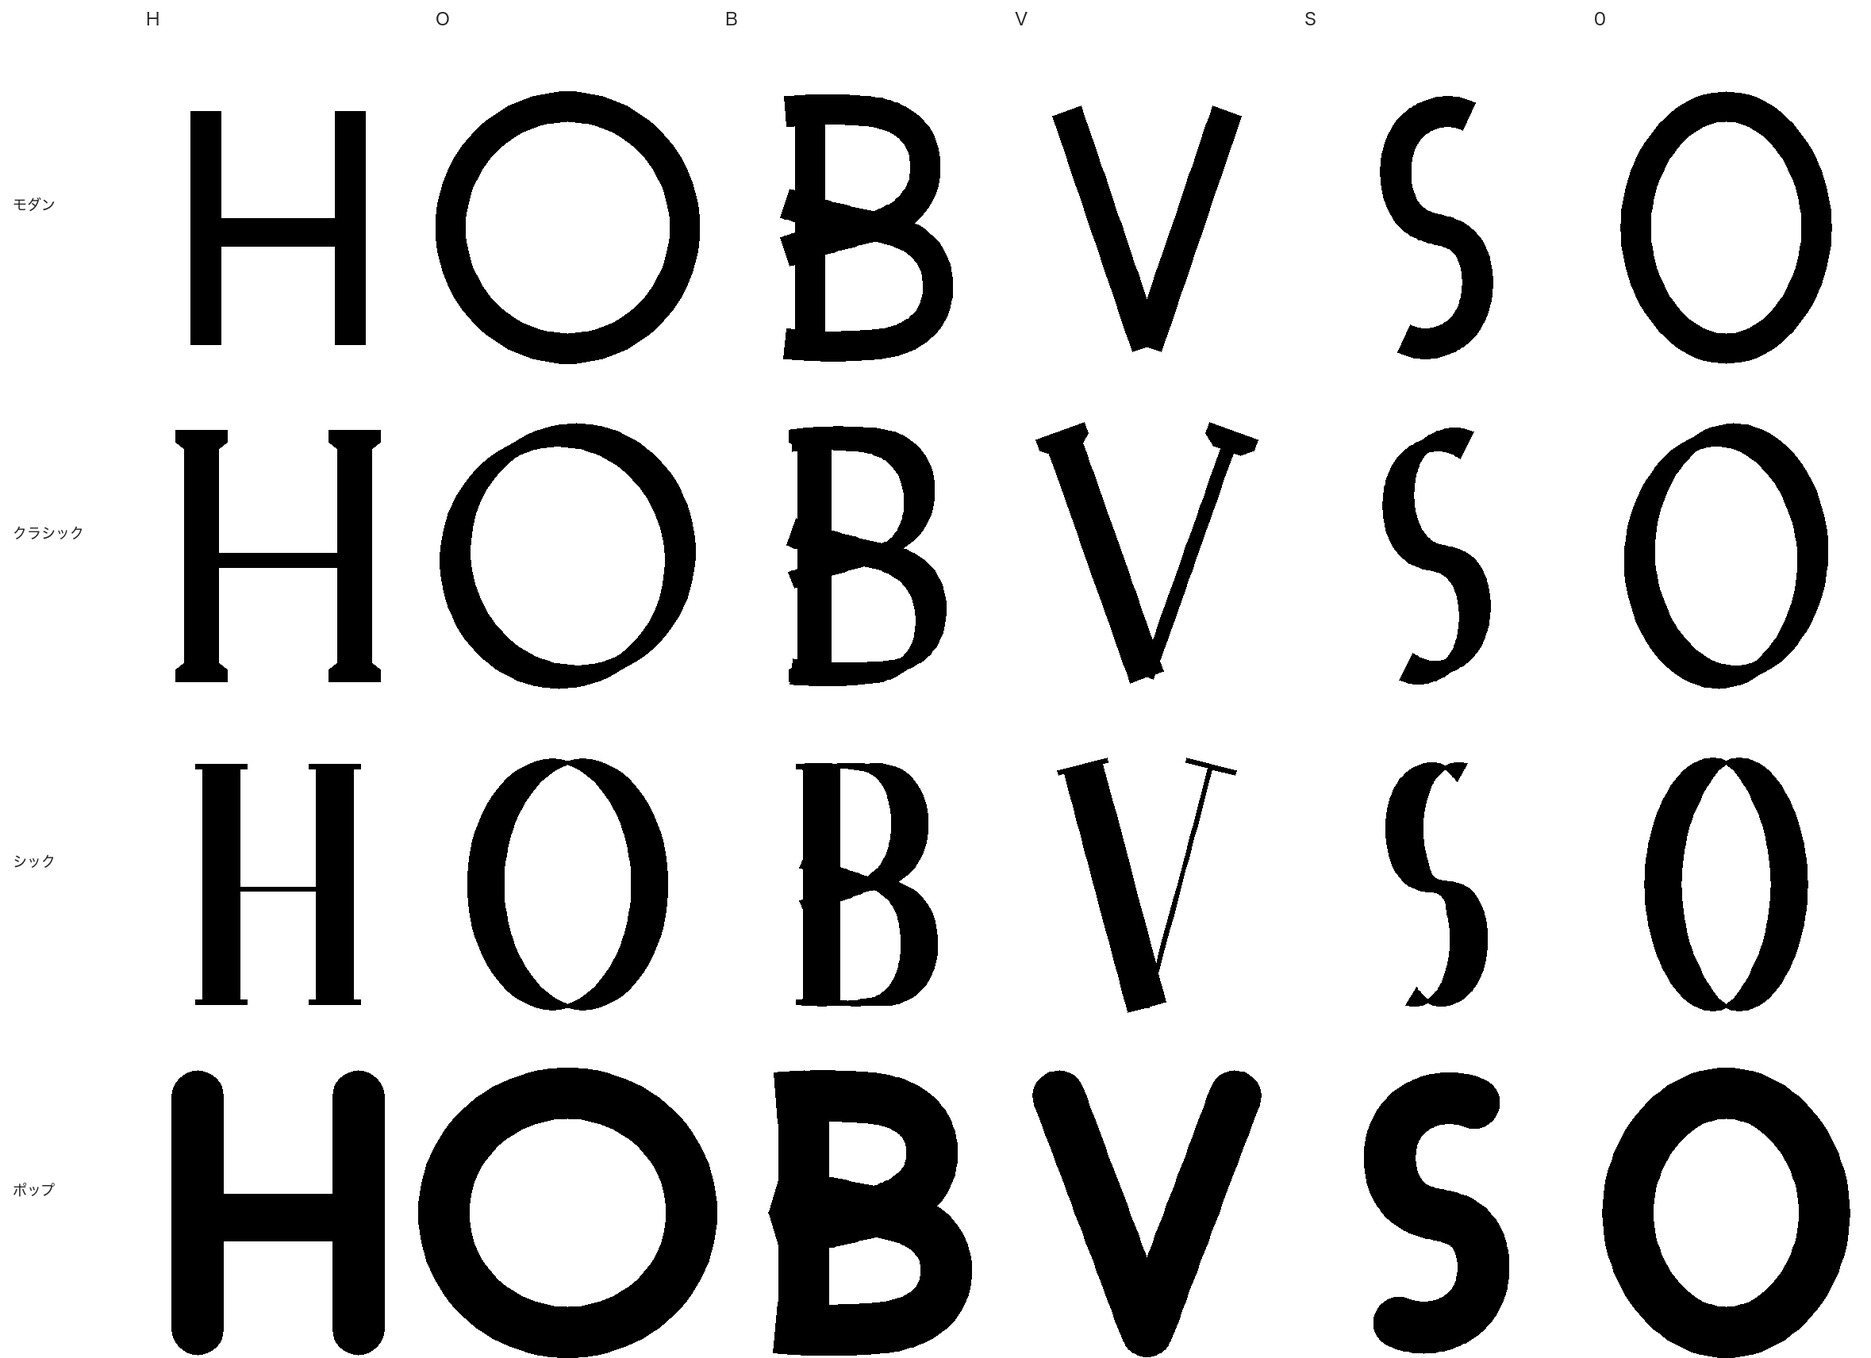
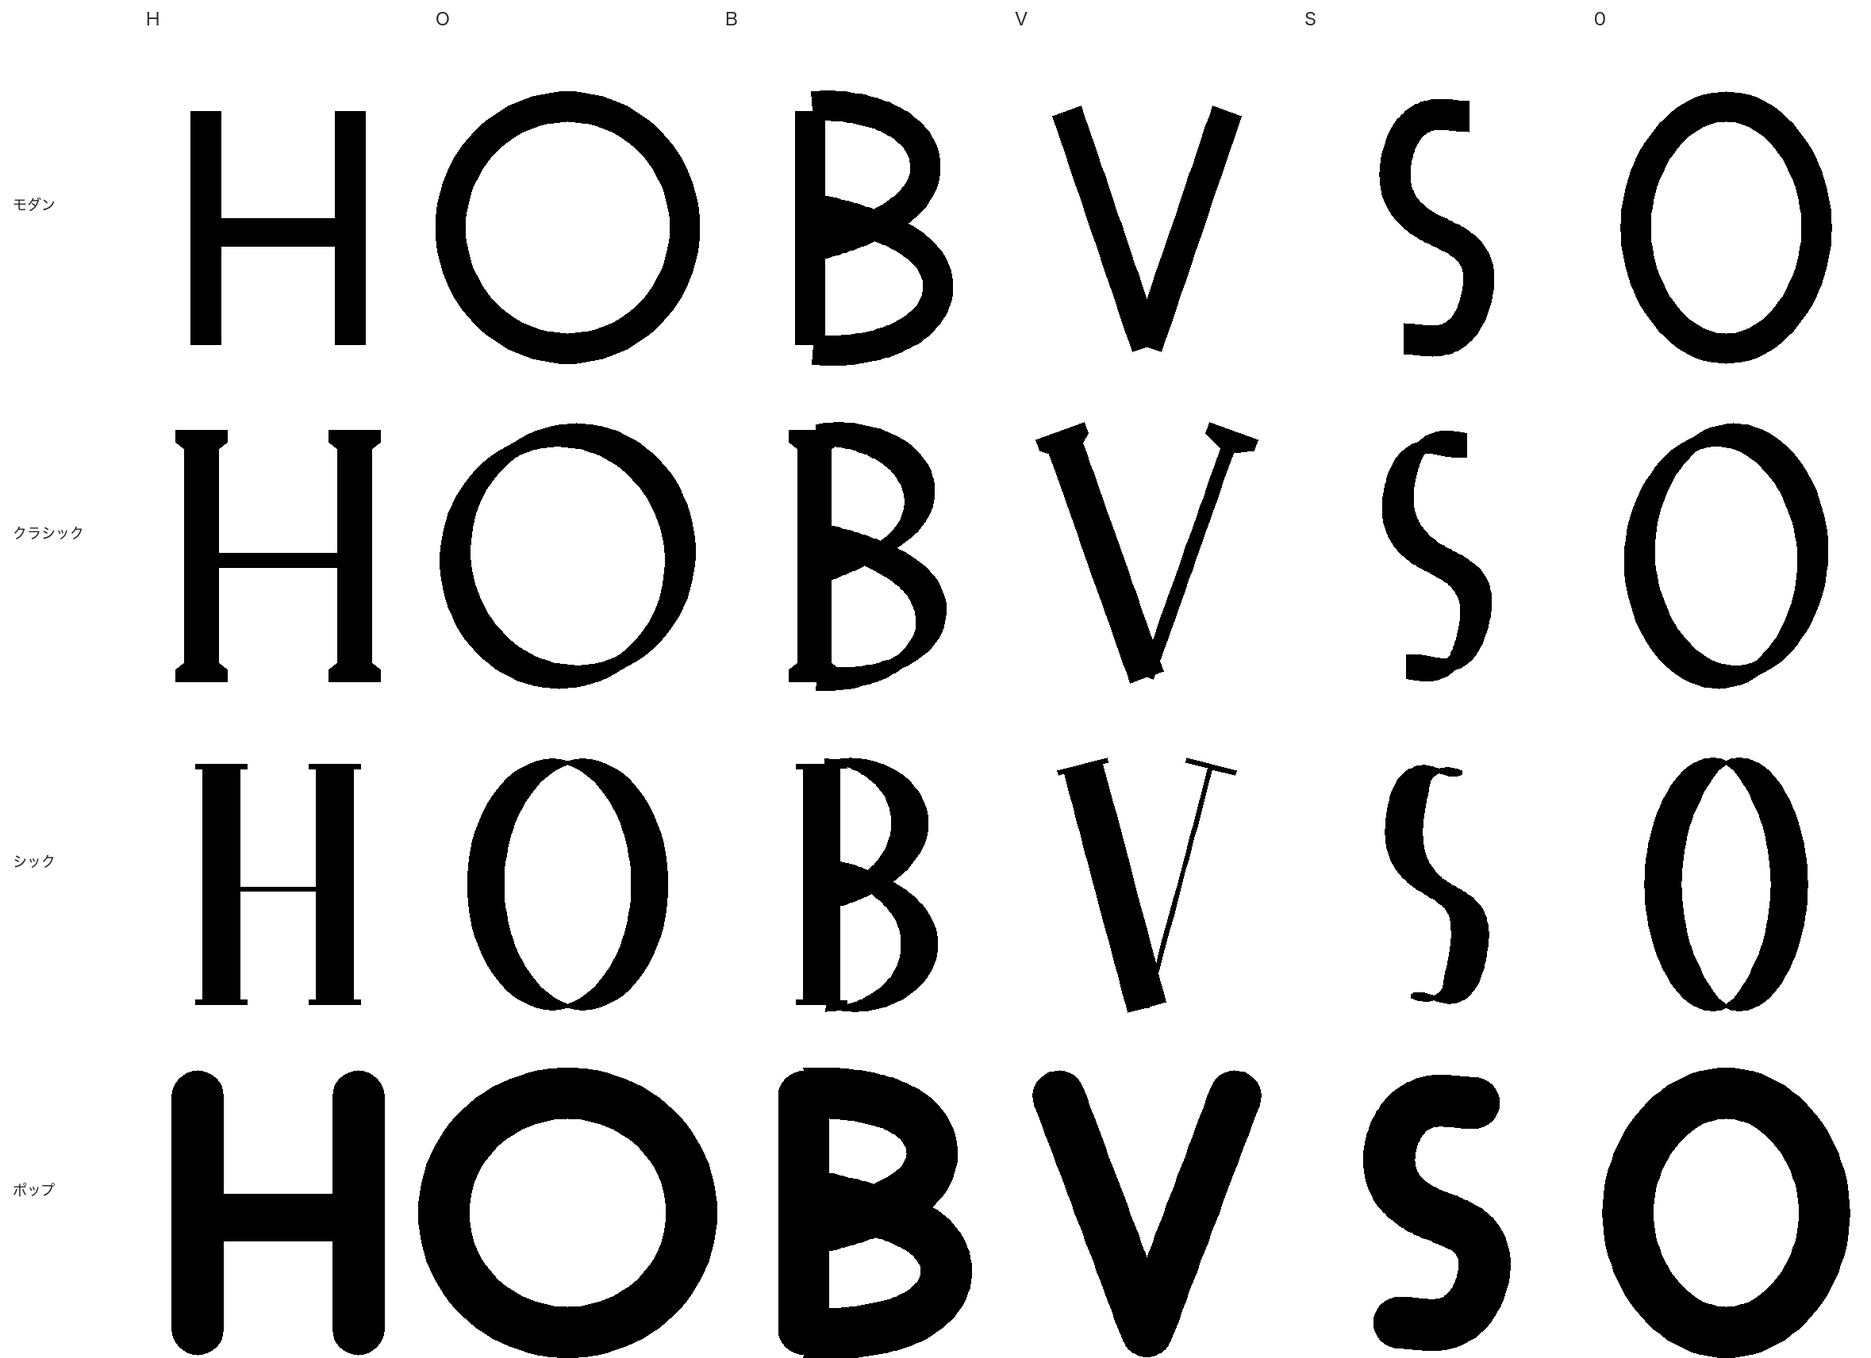
Pull joining strokes back into the stem and flatten S terminals.
Bowls were sticking out of B, and the S ends hooked after the curve was solved before the font-space scale.

diff --git a/engine/src/engine/latin/build.py b/engine/src/engine/latin/build.py
@@ -20,8 +20,8 @@ from engine.join_solver import (
     poly_to_path,
     split_contours,
 )
-from engine.latin.hobby import expand_stroke
-from engine.latin.joins import taper_end
+from engine.latin.hobby import Cubic, expand_stroke
+from engine.latin.joins import retract_end, taper_end
 from engine.latin.load import Resolved
 from engine.latin.pens import half_width
 from engine.latin.schema import Knot, Stroke
@@ -70,10 +70,9 @@ def _nudge_apex(stroke: Stroke, apex: float) -> Stroke:
     return replace(stroke, knots=tuple(knots))
 
 
-def _place(stroke: Stroke, resolved: Resolved):
+def _font_map(stroke: Stroke, resolved: Resolved):
+    """節点をフォント空間へ。閉じた字は単位正方形で展開してからこの写像を掛ける。"""
     style = resolved.style
-    prepared = _nudge_apex(stroke, style.overshoot["apex"])
-    cubics = expand_stroke(prepared)
     width = style.proportions[resolved.skeleton.glyph] * style.cap_height
     left = style.sidebearing["base"] * style.cap_height * style.sidebearing[resolved.skeleton.sides[0]]
     overshoot = style.overshoot["round"] * style.cap_height if stroke.role == "bowl" else 0.0
@@ -82,10 +81,20 @@ def _place(stroke: Stroke, resolved: Resolved):
     def xy(point: tuple[float, float]) -> tuple[float, float]:
         return (left + point[0] * width, point[1] * span - overshoot)
 
-    from engine.latin.hobby import Cubic
+    return xy
 
-    placed = tuple(Cubic(xy(c.p0), xy(c.c1), xy(c.c2), xy(c.p1)) for c in cubics)
-    return prepared, placed
+
+def _place(stroke: Stroke, resolved: Resolved):
+    prepared = _nudge_apex(stroke, resolved.style.overshoot["apex"])
+    xy = _font_map(prepared, resolved)
+    if stroke.closed:
+        # 閉じた4極は単位正方形で円にし、写像で楕円にする。
+        cubics = expand_stroke(prepared)
+        placed = tuple(Cubic(xy(c.p0), xy(c.c1), xy(c.c2), xy(c.p1)) for c in cubics)
+        return prepared, placed
+    # 開いた曲線は、縦横の縮尺が違ったあとの角度で Hobby を解く。
+    knots = tuple(Knot(xy((k.x, k.y))[0], xy((k.x, k.y))[1], k.kind, k.angle_deg) for k in prepared.knots)
+    return replace(prepared, knots=knots), expand_stroke(replace(prepared, knots=knots))
 
 
 def _sample(cubics) -> list[tuple[Vec2, Vec2]]:
@@ -159,12 +168,49 @@ def _terminal_paths(samples: list[tuple[Vec2, Vec2]], widths: list[float], strok
     return paths
 
 
-def _stroke_paths(stroke: Stroke, resolved: Resolved) -> list[Path]:
+def _centerline(stroke: Stroke, resolved: Resolved) -> tuple[list[tuple[Vec2, Vec2]], list[float]]:
     _prepared, cubics = _place(stroke, resolved)
     samples = _sample(cubics)
     if len(samples) < 2:
+        return [], []
+    return samples, _widths(samples, resolved, stroke)
+
+
+def _apply_joins(
+    samples: dict[str, list[tuple[Vec2, Vec2]]],
+    widths: dict[str, list[float]],
+    resolved: Resolved,
+) -> None:
+    """接合の a 側の端を、b の中心線まで戻す。幹の端は削らない。"""
+    for join in resolved.skeleton.joins:
+        if join.type not in ("bowl_join", "T", "L"):
+            continue
+        if join.a not in samples or join.b not in samples:
+            continue
+        _bury(samples, widths, join.a, join.b)
+
+
+def _bury(
+    samples: dict[str, list[tuple[Vec2, Vec2]]],
+    widths: dict[str, list[float]],
+    joiner: str,
+    partner: str,
+) -> None:
+    cur_s, cur_w = samples[joiner], widths[joiner]
+    for at_start in (True, False):
+        cur_s, cur_w = retract_end(cur_s, cur_w, samples[partner], widths[partner], at_start=at_start)
+    samples[joiner] = cur_s
+    widths[joiner] = cur_w
+
+
+def _stroke_paths(
+    stroke: Stroke,
+    samples: list[tuple[Vec2, Vec2]],
+    widths: list[float],
+    resolved: Resolved,
+) -> list[Path]:
+    if len(samples) < 2:
         return []
-    widths = _widths(samples, resolved, stroke)
     paths: list[Path] = []
     if stroke.closed:
         outer, inner = variable_width_ring_outlines(samples, widths)
@@ -181,7 +227,17 @@ def _stroke_paths(stroke: Stroke, resolved: Resolved) -> list[Path]:
 
 
 def build_glyph(resolved: Resolved) -> GlyphOutline:
-    paths = [path for stroke in resolved.skeleton.strokes for path in _stroke_paths(stroke, resolved)]
+    strokes = resolved.skeleton.strokes
+    samples: dict[str, list[tuple[Vec2, Vec2]]] = {}
+    widths: dict[str, list[float]] = {}
+    for stroke in strokes:
+        samples[stroke.id], widths[stroke.id] = _centerline(stroke, resolved)
+    _apply_joins(samples, widths, resolved)
+    paths = [
+        path
+        for stroke in strokes
+        for path in _stroke_paths(stroke, samples[stroke.id], widths[stroke.id], resolved)
+    ]
     united = _union_all(paths)
     raw = [tuple(Vec2(x, y) for x, y in contour_points(c)) for c in split_contours(united)]
     floor = resolved.style.micro_area_floor

diff --git a/engine/src/engine/latin/joins.py b/engine/src/engine/latin/joins.py
@@ -1,6 +1,8 @@
-"""接合。股の細めは半幅列の端を crotch_thin 倍まで落とす。"""
+"""接合。股の細め、頂点の留め、幹への埋め込み。"""
 
 from __future__ import annotations
+
+from engine.geometry import Vec2
 
 
 def taper_end(half_widths: list[float], *, at_start: bool, factor: float, fraction: float = 0.22) -> None:
@@ -17,3 +19,75 @@ def taper_end(half_widths: list[float], *, at_start: bool, factor: float, fracti
     for i in range(span):
         blend = 1.0 - i / span
         half_widths[last - i] *= (1.0 - blend) + factor * blend
+
+
+def _closest(point: Vec2, samples: list[tuple[Vec2, Vec2]]) -> tuple[float, Vec2, int] | None:
+    best: tuple[float, Vec2, int] | None = None
+    for i in range(len(samples) - 1):
+        start = samples[i][0]
+        end = samples[i + 1][0]
+        chord = end - start
+        length2 = chord.dot(chord)
+        if length2 < 1e-12:
+            proj = start
+        else:
+            t = max(0.0, min(1.0, (point - start).dot(chord) / length2))
+            proj = start + chord * t
+        dist = (point - proj).length()
+        if best is None or dist < best[0]:
+            best = (dist, proj, i)
+    return best
+
+
+def retract_end(
+    samples: list[tuple[Vec2, Vec2]],
+    widths: list[float],
+    partner: list[tuple[Vec2, Vec2]],
+    partner_widths: list[float],
+    *,
+    at_start: bool,
+) -> tuple[list[tuple[Vec2, Vec2]], list[float]]:
+    """端が相手の中心線を越えていたら、中心線との交点まで戻す。"""
+    if len(samples) < 3 or len(partner) < 2:
+        return samples, widths
+    end_i = 0 if at_start else len(samples) - 1
+    hit = _closest(samples[end_i][0], partner)
+    if hit is None:
+        return samples, widths
+    dist, center, seg = hit
+    partner_half = partner_widths[min(seg, len(partner_widths) - 1)]
+    # 相手の太さ程度までは埋め込む。幹の端が交差する横画まで届く距離にはしない。
+    reach = 1.5 * (widths[end_i] + partner_half)
+    if dist > reach:
+        return samples, widths
+    normal = samples[len(samples) // 2][0] - center
+    if normal.length() < 1e-6:
+        return samples, widths
+    normal = normal.normalized()
+
+    def side(point: Vec2) -> float:
+        return (point - center).dot(normal)
+
+    pts = list(samples)
+    ws = list(widths)
+    if at_start:
+        k = 0
+        while k < len(pts) - 1 and side(pts[k][0]) < 0.0:
+            k += 1
+        if k == 0:
+            return samples, widths
+        p0, p1 = pts[k - 1][0], pts[k][0]
+        s0, s1 = side(p0), side(p1)
+        t = 0.0 if abs(s1 - s0) < 1e-9 else max(0.0, min(1.0, -s0 / (s1 - s0)))
+        pos = p0.lerp(p1, t)
+        return [(pos, pts[k][1])] + pts[k:], [ws[k - 1] + (ws[k] - ws[k - 1]) * t] + ws[k:]
+    k = len(pts) - 1
+    while k > 0 and side(pts[k][0]) < 0.0:
+        k -= 1
+    if k == len(pts) - 1:
+        return samples, widths
+    p0, p1 = pts[k][0], pts[k + 1][0]
+    s0, s1 = side(p0), side(p1)
+    t = 0.0 if abs(s1 - s0) < 1e-9 else max(0.0, min(1.0, -s0 / (s1 - s0)))
+    pos = p0.lerp(p1, t)
+    return pts[: k + 1] + [(pos, pts[k][1])], ws[: k + 1] + [ws[k] + (ws[k + 1] - ws[k]) * t]

diff --git a/engine/src/engine/latin/terminals.py b/engine/src/engine/latin/terminals.py
@@ -32,14 +32,14 @@ def _slab(origin: Vec2, outward: Vec2, length: float, thick: float) -> list[Vec2
     ]
 
 
-def _bracket(origin: Vec2, outward: Vec2, length: float, thick: float, bracket: float) -> list[Vec2]:
+def _bracket(origin: Vec2, outward: Vec2, length: float, thick: float, bracket: float, half_width: float) -> list[Vec2]:
     """セリフの横棒と、幹へ戻る短いブラケット。自己交差しない六角形。"""
     direction = outward.normalized()
     normal = direction.perpendicular()
     back = origin - direction * (thick * 0.35)
     front = origin + direction * thick
     half = length / 2.0
-    neck = half * 0.55
+    neck = min(half * 0.55, max(half_width, 1.0))
     inner = origin - direction * (thick * 0.35 + max(bracket, thick))
     return [
         front + normal * half,
@@ -76,7 +76,7 @@ def terminal_polygon(
     if kind == "serif_hairline":
         return _slab(origin, outward, serif_length, max(serif_thick, 1.0))
     if kind == "serif_bracketed":
-        return _bracket(origin, outward, serif_length, max(serif_thick, 1.0), bracket)
+        return _bracket(origin, outward, serif_length, max(serif_thick, 1.0), bracket, half_width)
     if kind == "spur":
         return _slab(origin, outward, serif_length * 0.45, max(serif_thick, 1.0))
     raise ValueError(f"unknown terminal {kind!r}")

diff --git a/engine/tests/test_latin_build.py b/engine/tests/test_latin_build.py
@@ -21,6 +21,17 @@ def test_pilot_glyph_matches_expected_contours(glyph, style):
     assert outline.advance > 0
 
 
+def test_modern_b_bowls_do_not_stick_out_of_the_stem():
+    resolved = load_resolved("B", "modern")
+    outline = build_glyph(resolved)
+    style = resolved.style
+    width = style.proportions["B"] * style.cap_height
+    left = style.sidebearing["base"] * style.cap_height * style.sidebearing["straight"]
+    stem_left = left + 0.18 * width - (style.cap_height * resolved.pen.stem / 2.0)
+    outer = next(contour for contour, hole in zip(outline.contours, outline.holes) if not hole)
+    assert min(point.x for point in outer) >= stem_left - 2.0
+
+
 def test_pop_h_is_heavier_than_modern_and_chic_o_is_narrower():
     def ink(glyph, style):
         outline = build_glyph(load_resolved(glyph, style))

diff --git a/PLAN.md b/PLAN.md
@@ -384,7 +384,7 @@ spike7 の結合検証で判明した実態:
 
 最終同期: 2026-09-30。
 
-正本は `docs/生成書体の仕様.md`。日本語の新規グリフ・骨格・盲検・品位作業・常用漢字の量産は休止。現行はアルファベット。先行研究の採否は `docs/latin_research.md`。実装計画 v2 はパイロット（工程2–6。比較シート `proofs/latin/pilot_sheet.png`、分離の凍結 `engine/src/engine/latin/targets/separation.yaml`）まで到達し、次は工程7（モダンの残り31字）。ファミリー名は Someiro（「Irodori」は商標の危険で替えた。`docs/legal_research.md`）。他者に渡す条件は決定済み（区分は1つ、1者の中は台数・人数とも上限なし、自前の Web フォントは可、更新版は追加料金なし。下書き `docs/eula_draft.md`）。仕様の残りは、出願前の商標調査、EULA の URL 公開、日本語の著作権表記を足すかで、そのあいだはファイルを出さない。内部ビルドは version 0.001 で git に入れない。以下は休止前の到達点。
+正本は `docs/生成書体の仕様.md`。日本語の新規グリフ・骨格・盲検・品位作業・常用漢字の量産は休止。現行はアルファベット。先行研究の採否は `docs/latin_research.md`。実装計画 v2 はパイロット（工程2–6。比較シート `proofs/latin/pilot_sheet.png`、分離の凍結 `engine/src/engine/latin/targets/separation.yaml`）まで到達した。B の左のはみ出しは戻した。次は B の腰と V の先端を閉じてから工程7（モダンの残り31字）。ファミリー名は Someiro（「Irodori」は商標の危険で替えた。`docs/legal_research.md`）。他者に渡す条件は決定済み（区分は1つ、1者の中は台数・人数とも上限なし、自前の Web フォントは可、更新版は追加料金なし。下書き `docs/eula_draft.md`）。仕様の残りは、出願前の商標調査、EULA の URL 公開、日本語の著作権表記を足すかで、そのあいだはファイルを出さない。内部ビルドは version 0.001 で git に入れない。以下は休止前の到達点。
 
 1. ~~P-Q0＋P-R1~~ — 診断表と `receive_manual.py` 済
 2. ~~P-Q1~~ — づ・ん・や・を・る 受け入れ済（ink/20px 外れ解消）

diff --git a/docs/weekly.md b/docs/weekly.md
@@ -2,4 +2,4 @@
 
 - M1デモ可能日: 2026-08-17（P1 盲検 α Go。UI 3/3・HUD 3/3。詳細 `proofs/blind/RESULT_p1.txt`）
 - M2デモ可能日: join20＋曲線再適合＋T7+＋P0（product_r1 frozen）＋Phase0a穴修正まで到達
-- 今週の一手: 生成書体の正本は `docs/生成書体の仕様.md`。日本語の新規制作は休止。収録は A–Z・0–9・`/`＋空白2字の39字。OTF＋TTF・プロポーショナル・1ウェイト・Someiro Modern/Classic/Chic/Pop（`Regular`）・独自 EULA（fsType 0、Motivation Studio LLC、`MTVS`、`Version 1.000`）は決定。他者に渡す条件も決定（区分は1つ、1者の中は台数・人数とも上限なし、自前の Web フォントは可、更新版は追加料金なし。下書き `docs/eula_draft.md`）。出願前の商標調査・EULA の URL 公開・日本語の著作権表記が済むまでファイルを出さない。パイロット6字の比較シートで4様式を区別でき、分離は `engine/src/engine/latin/targets/separation.yaml` に凍結（内部ビルドは version 0.001、git 外）。次はモダンの残り31字。R1 参照取得は未着手
+- 今週の一手: 生成書体の正本は `docs/生成書体の仕様.md`。日本語の新規制作は休止。収録は A–Z・0–9・`/`＋空白2字の39字。OTF＋TTF・プロポーショナル・1ウェイト・Someiro Modern/Classic/Chic/Pop（`Regular`）・独自 EULA（fsType 0、Motivation Studio LLC、`MTVS`、`Version 1.000`）は決定。他者に渡す条件も決定（区分は1つ、1者の中は台数・人数とも上限なし、自前の Web フォントは可、更新版は追加料金なし。下書き `docs/eula_draft.md`）。出願前の商標調査・EULA の URL 公開・日本語の著作権表記が済むまでファイルを出さない。パイロット6字の比較シートで4様式を区別でき、分離は `engine/src/engine/latin/targets/separation.yaml` に凍結（内部ビルドは version 0.001、git 外）。B のボウルは幹の中まで戻し、S の端の接線は水平にした。残るのは B の腰のくびれと V の先端の谷、工程5の正式ゲート。そのあとモダンの残り31字。R1 参照取得は未着手

diff --git a/docs/latin_impl_plan.md b/docs/latin_impl_plan.md
@@ -1,6 +1,6 @@
 # タイポアート用アルファベット書体 実装計画 v2
 
-2026-09-29 策定。同日 v2: 先行研究の調査（`docs/latin_research.md`）を §2・§4・§5・§7 に反映。工程1（字集合）は同日完了。2026-09-30、工程2–6のパイロット（骨格・Hobby・4様式・H O B V S 0・比較シート・分離の凍結）まで到達。次は工程7（モダンの残り31字）。B の接合の切れ目と、工程5の正式ゲート一式は残る。最終同期: 2026-09-30。
+2026-09-29 策定。同日 v2: 先行研究の調査（`docs/latin_research.md`）を §2・§4・§5・§7 に反映。工程1（字集合）は同日完了。2026-09-30、工程2–6のパイロット（骨格・Hobby・4様式・H O B V S 0・比較シート・分離の凍結）まで到達。同日、B のボウルは幹へ埋め込み、S の端は水平にした。残るのは B の腰のくびれ、V の先端の谷、工程5の正式ゲート一式。それが済むまで工程7（モダンの残り31字）には進まない。最終同期: 2026-09-30。
 正本の優先順: `docs/生成書体の仕様.md` ＞ `GOLDENRULES.md` ＞ 本書 ＞ `docs/latin_display_plan.md`（制作計画。様式定義と工程の粗い順番）＞ `docs/latin_research.md`（採否の根拠）。
 
 本書は「どのファイルに、何を、どの順で、どのテストを先に書いて作るか」を決める。数値の初期値は設計パラメータであり、仕様の未決定項目ではない。仕様の未決定項目は本書でも埋めない。

diff --git a/docs/latin_display_plan.md b/docs/latin_display_plan.md
@@ -174,7 +174,7 @@ glyph 骨格 YAML（37字 × 構造の型）
 
 工数の正本は `docs/latin_impl_plan.md` §7。1ウェイト・4様式（工程 1–10、13、R）の足し算は **234–405h**。この表の L 番号は制作の粗い順番で、時間の見積には使わない。
 
-L1 と L2 は 2026-09-30 にパイロットとして到達した。比較シートは `proofs/latin/pilot_sheet.png`。作者は4様式を区別でき、分離閾値は凍結済み。次は L3 のモダン。B の接合の切れ目は残る。L6 の引き渡しは、仕様の未決定が残るあいだ出さない。
+L1 と L2 は 2026-09-30 にパイロットとして到達した。比較シートは `proofs/latin/pilot_sheet.png`。作者は4様式を区別でき、分離閾値は凍結済み。B の左のはみ出しは戻した。腰のくびれと V の先端が残るあいだは L3 に進まない。L6 の引き渡しは、仕様の未決定が残るあいだ出さない。
 
 順番の理由: モダンは `mono` ペンと直線・円だけで基盤を検証できる。ポップはその骨格を再利用できる。シックとクラシックは `nib` ペンを共有し、クラシックが比例と端物で最も難しい。
 
